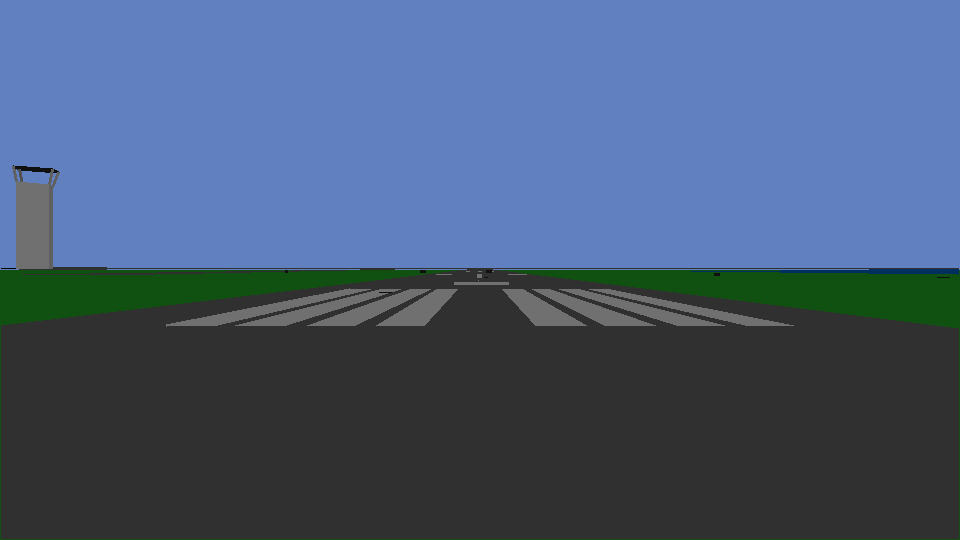
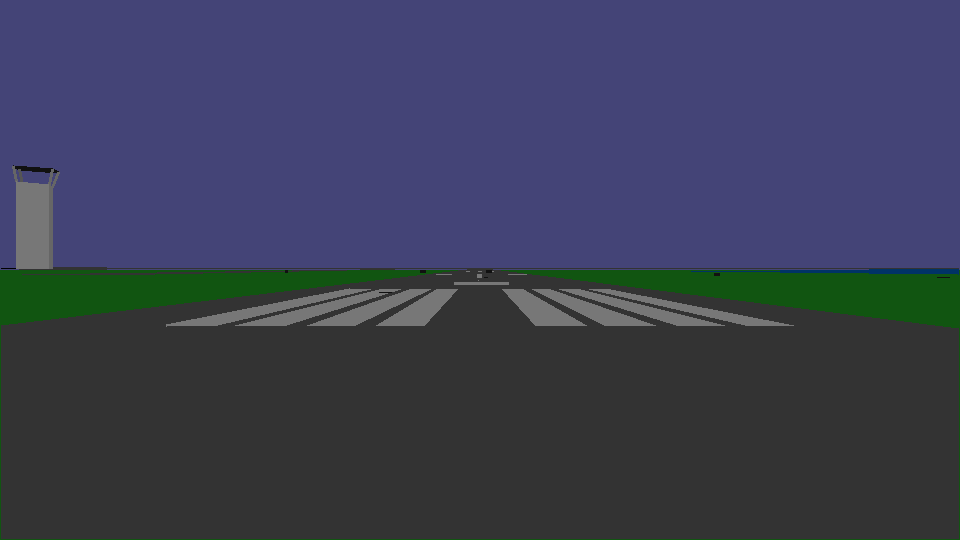
Pictures in the game's own palette: the hills are dark green, not orange
The pictures had used the instrument panel picture's palette, which has
colours 9 and 11 the other way round from the palette the game loads for
its view (dat_021_00080, the brightest fade level). All pictures redone:
the hills and parks are dark green, the missiles' trails orange.

Claude-Session: https://claude.ai/code/session_01LbtcUWy6kWuYz7Xe3kf583

diff --git a/original/tools/models/render.py b/original/tools/models/render.py
@@ -7,7 +7,12 @@ g = dm.g
 
 
 def palette(label=None):
-    if label is None or label == 'inst5':
+    """The game's palette in flight: the brightest of the 16 fade levels at dat_021_00080, which
+    the game loads into its view (the panel picture's own CMAP has colours 9 and 11 the other
+    way round)."""
+    if label is None:
+        return _palette('dat_021_00080')[:16]
+    if label == 'inst5':
         d = open(os.path.join(dm.ROOT if hasattr(dm, 'ROOT') else '', 'disk', 'files', 'F-18 Interceptor', 'pix', 'inst5'), 'rb').read()
         i = d.index(b'CMAP'); n = int.from_bytes(d[i + 4:i + 8], 'big'); c = d[i + 8:i + 8 + n]
         return [tuple(c[j:j + 3]) for j in range(0, n, 3)]

diff --git a/original/tools/models/scene.py b/original/tools/models/scene.py
@@ -81,7 +81,7 @@ def paint(prims, scale=3, horizon=None):
     """The sky and the ground behind are the copper's work (colour 0 changed down the screen),
     not drawn: they are filled in here at the horizon's height."""
     pal = render.palette()
-    im = Image.new('RGB', (320 * scale, 180 * scale), (96, 128, 192))
+    im = Image.new('RGB', (320 * scale, 180 * scale), pal[5])
     d = ImageDraw.Draw(im)
     if horizon is not None:
         d.rectangle([0, horizon * scale, 320 * scale, 180 * scale], fill=pal[4])

diff --git a/original/docs/MODELS.md b/original/docs/MODELS.md
@@ -11,7 +11,8 @@ It then captures what the game would have drawn:
 * the lines and the points.
 
 Each primitive is captured in the camera's space and drawn again with Python's PIL, in the
-colours of the flight's palette (the instrument panel picture's).
+colours of the flight's palette. That is the brightest of the 16 fade levels in hunk 21
+(`dat_021_00080`), which the game loads for its view.
 
 Each picture is scaled to fit its panel, so sizes cannot be compared between pictures.
 
@@ -28,6 +29,8 @@ The first version of these pictures had faults, since corrected:
 * Faces were missing from some shapes, such as Coit Tower's front. The drawing lists' plane
   tests compare the camera's position against the shape (`dat_071_00442`-`00448`), and the tool
   had not set it.
+* The colours were taken from the instrument panel picture. Its palette has colours 9 and 11
+  the other way round from the game's, which turned the dark green hills orange.
 * The emulator kept the first routine it was asked to run and ran it again for later calls.
   It translates code once and keeps it, and the tool rewrote its call in place without
   flushing it.
@@ -95,7 +98,7 @@ Most of the rest are pieces that only make sense put together:
 
 * runway and taxiway markings, drawn as lines, and runway numbers;
 * building blocks;
-* the orange hills (42).
+* the hills and parks, dark green (42).
 
 The scenery maps place them, so the in-game views below show what they make. They include the runways'
 numbers (for example 64, 65).
@@ -121,8 +124,12 @@ Then it runs the 3D stages of a frame (`UpdateViewCell`, `SetupCamera`, the scen
 game's clipping and projection, the lines and the points. They are painted in order, in screen
 coordinates, so these are the game's own frames.
 
+Colour 9 (orange) is the missiles' exhaust trail; colour 11 (dark green) is the hills and the
+pilot's flight suit.
+
 There are two exceptions. The sky and the ground behind everything come from the copper (colour
-0 changed down the screen), not from drawing, so they are filled in at the horizon. The cockpit
+0 changed down the screen), not from drawing, so they are filled in at the horizon. They use colour 5 for the sky and colour 4 for the ground,
+which is a guess: the code that sets those colours has not been found yet. The cockpit
 is left out.
 
 ![On the runway](images/view_runway.png)
@@ -134,7 +141,7 @@ is left out.
 ![The city's hills and Sutro Tower](images/view_sutro.png)
 
 The ground is drawn in the colours of the land, the water (the bay), the city (grey) and the
-hills (orange). The scenery maps' pieces become the airfields with their runways and control
+hills and parks (dark green). The scenery maps' pieces become the airfields with their runways and control
 tower, the bridges and the city.
 
 Some places:
